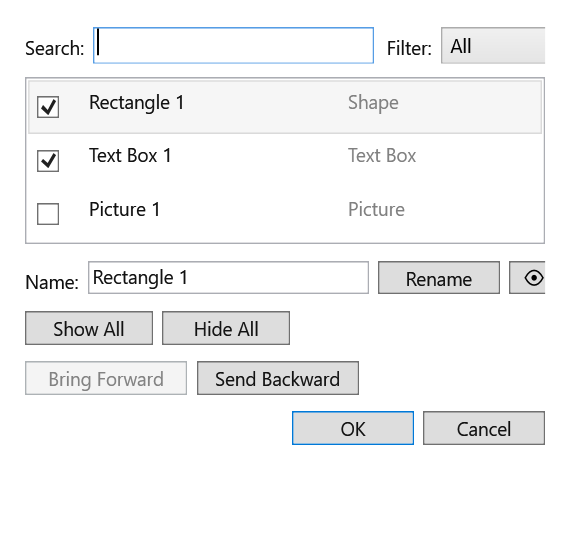
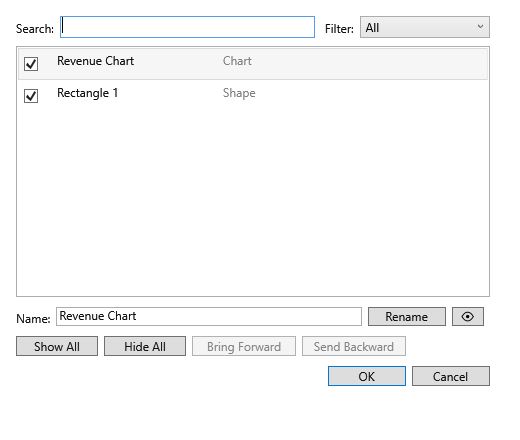
Refresh Selection Pane dialog parity evidence

diff --git a/tests/FreeX.App.Services.Tests/AvaloniaShellSourceTests.cs b/tests/FreeX.App.Services.Tests/AvaloniaShellSourceTests.cs
@@ -2676,6 +2676,9 @@ public sealed class AvaloniaShellSourceTests
         wpfCaptureSource.Should().Contain("SelectionPaneParityFixture.CreateDialogItems(");
         avaloniaCaptureSource.Should().Contain("SelectionPaneParityFixture.ChartName");
         avaloniaCaptureSource.Should().Contain("SelectionPaneParityFixture.ShapeName");
+        wpfCaptureSource.Should().Contain("CreateSelectionPaneItems()");
+        wpfCaptureSource.Should().NotContain("\"Text Box 1\"");
+        wpfCaptureSource.Should().NotContain("\"Picture 1\"");
 
         avaloniaCaptureSource.Should().Contain("ShowAccessibilityCheckerParityDialogAsync()");
         avaloniaCaptureSource.Should().Contain("AccessibilityCheckerParityFixture.CreateDialogIssues(");

diff --git a/docs/parity/dialog-visual-evidence-summary.md b/docs/parity/dialog-visual-evidence-summary.md
@@ -31,19 +31,19 @@ Sources:
 | WPF manifest ids without Avalonia pair | 0 |
 | Avalonia-manifest-only screenshot surface ids needing WPF manifest pair | 0 |
 | Nonblank PNG check failures | 0 |
-| Paired dimension mismatches (scale-aware logical units) | 44 |
-| Raw PNG pixel dimension mismatches | 70 |
+| Paired dimension mismatches (scale-aware logical units) | 43 |
+| Raw PNG pixel dimension mismatches | 69 |
 | Raw PNG mismatches normalized by capture DPI | 26 |
 | Paired expected-size evidence mismatches | 10 |
 | Stale promoted expected-size evidence | 5 |
 
 ## Scale-Aware Dimension Mismatch Classification
 
-The 44 scale-aware logical dimension mismatches are bucketed from committed PNG evidence and deterministic surface-id rules. Buckets describe the next review posture: align real layout sizes, fix content/state drift before comparing, accept expected platform/native control differences, or refresh limited evidence.
+The 43 scale-aware logical dimension mismatches are bucketed from committed PNG evidence and deterministic surface-id rules. Buckets describe the next review posture: align real layout sizes, fix content/state drift before comparing, accept expected platform/native control differences, or refresh limited evidence.
 
 | Bucket | Count | Top surface ids | Top next action |
 | --- | ---: | --- | --- |
-| content/visual mismatch | 13 | dialog.ScenarioManager<br>dialog.SelectionPane<br>dialog.AccessibilityChecker<br>dialog.FormatCells.Alignment<br>dialog.FormatCells.Fill | Align the seeded harness state before judging the remaining Scenario Manager dimensions. |
+| content/visual mismatch | 12 | dialog.ScenarioManager<br>dialog.AccessibilityChecker<br>dialog.FormatCells.Alignment<br>dialog.FormatCells.Fill<br>dialog.FormatCells.Border | Align the seeded harness state before judging the remaining Scenario Manager dimensions. |
 | evidence limitation | 12 | dialog.GoalSeekStatus<br>dialog.SymbolPicker<br>dialog.Sort<br>dialog.PivotTableOptions<br>dialog.PivotTableOptions.LayoutAndFormat | Recapture or tighten the WPF status crop before treating the height delta as a product bug. |
 | expected platform/native difference | 19 | dialog.FindReplace.Replace<br>dialog.FindReplace<br>dialog.FindReplace.Find<br>dialog.Sparkline<br>dialog.Options.QuickAccessToolbar | Keep as expected platform/native variance unless parity policy later requires exact control metrics. |
 
@@ -55,7 +55,6 @@ Outliers are ranked by a deterministic triage score: normalized 32x32 ARGB sampl
 | --- | ---: | ---: | --- | --- | --- | ---: | ---: | ---: | ---: |
 | dialog.ScenarioManager | 360x420 | 500x740 | 540x630 px @ 144 DPI vs 500x740 px @ 96 DPI | content/visual mismatch |  | 1.299 | 0.045 | 0.018 | 0.086 |
 | dialog.GoalSeekStatus | 380x219 | 380x190 | 380x219 px @ 96 DPI vs 380x190 px @ 96 DPI | evidence limitation |  | 0.873 | 0.268 | 0.220 | 0.252 |
-| dialog.SelectionPane | 380x360 | 520x440 | 570x540 px @ 144 DPI vs 520x440 px @ 96 DPI | content/visual mismatch |  | 0.851 | 0.051 | 0.023 | 0.186 |
 | dialog.AccessibilityChecker | 520x360 | 360x520 | 780x540 px @ 144 DPI vs 360x520 px @ 96 DPI | content/visual mismatch |  | 0.842 | 0.057 | 0.026 | 0.007 |
 | dialog.SymbolPicker | 620x500 | 840x620 | 930x750 px @ 144 DPI vs 840x620 px @ 96 DPI | evidence limitation | Expected 840x620 via SymbolPickerCatalogPlanner.DialogWidth/DialogHeight | 0.804 | 0.030 | 0.025 | 0.155 |
 | dialog.FormatCells.Alignment | 620x540 | 690x660 | 620x540 px @ 96 DPI vs 690x660 px @ 96 DPI | content/visual mismatch |  | 0.768 | 0.134 | 0.110 | 0.188 |
@@ -63,6 +62,7 @@ Outliers are ranked by a deterministic triage score: normalized 32x32 ARGB sampl
 | dialog.FormatCells.Border | 620x540 | 690x660 | 620x540 px @ 96 DPI vs 690x660 px @ 96 DPI | content/visual mismatch |  | 0.753 | 0.162 | 0.115 | 0.142 |
 | dialog.FormatCells.Font | 620x540 | 690x660 | 620x540 px @ 96 DPI vs 690x660 px @ 96 DPI | content/visual mismatch |  | 0.733 | 0.144 | 0.110 | 0.144 |
 | dialog.GoalSeek | 380x210 | 380x210 | 380x210 px @ 96 DPI vs 380x210 px @ 96 DPI |  |  | 0.725 | 0.258 | 0.220 | 0.247 |
+| dialog.FormatCells.Protection | 620x540 | 690x660 | 620x540 px @ 96 DPI vs 690x660 px @ 96 DPI | content/visual mismatch |  | 0.669 | 0.127 | 0.100 | 0.106 |
 
 ## Scale-Aware Dimension Mismatch Details
 
@@ -105,7 +105,6 @@ Outliers are ranked by a deterministic triage score: normalized 32x32 ARGB sampl
 | dialog.ProtectWorkbook | expected platform/native difference | 360x250 | 380x240 | 20x10 | The PNGs show the same paired surface with small WPF/Avalonia control, chrome, or default-spacing differences. | Keep as expected platform/native variance unless parity policy later requires exact control metrics. |
 | dialog.ScenarioManager | content/visual mismatch | 360x420 | 500x740 | 140x320 | The committed WPF PNG shows a selected seeded scenario while the Avalonia PNG shows an empty/no-scenario state. | Align the seeded harness state before judging the remaining Scenario Manager dimensions. |
 | dialog.SelectDataSource | content/visual mismatch | 620x500 | 468x499 | 152x1 | The committed PNGs show different dialog content/state, so the size delta is not isolated layout evidence. | Align the harness data/state first, then reclassify any residual logical-size delta. |
-| dialog.SelectionPane | content/visual mismatch | 380x360 | 520x440 | 140x80 | The committed PNGs use different sample objects and selected rows. | Align the sample worksheet objects and selection state, then re-rank the surface. |
 | dialog.ShapeGradient | evidence limitation | 420x280 | 500x300 | 80x20 | The checked-in PNG disagrees with an explicit expected capture size, so the dimension delta is suspect evidence. | Recapture or replace the stale evidence before treating this as a product layout mismatch. |
 | dialog.Sort | evidence limitation | 640x420 | 760x500 | 120x80 | The checked-in PNG disagrees with an explicit expected capture size, so the dimension delta is suspect evidence. | Recapture or replace the stale evidence before treating this as a product layout mismatch. |
 | dialog.Sparkline | expected platform/native difference | 380x240 | 372x230 | 8x10 | The PNGs show the same paired surface with small WPF/Avalonia control, chrome, or default-spacing differences. | Keep as expected platform/native variance unless parity policy later requires exact control metrics. |
@@ -226,7 +225,7 @@ These expected-size mismatches are known promoted fallback screenshots, not dire
 | dialog.SaveAsWorkbook | dialog.SaveAsWorkbook.png | 640x420 | 640x420 px @ 96 DPI | True | dialog.SaveAsWorkbook.png | 640x420 | 640x420 px @ 96 DPI | True | True | 0.036 |
 | dialog.ScenarioManager | dialog.ScenarioManager.png | 360x420 | 540x630 px @ 144 DPI | True | dialog.ScenarioManager.png | 500x740 | 500x740 px @ 96 DPI | True | False | 1.299 |
 | dialog.SelectDataSource | dialog.SelectDataSource.png | 620x500 | 930x750 px @ 144 DPI | True | dialog.SelectDataSource.png | 468x499 | 468x499 px @ 96 DPI | True | False | 0.404 |
-| dialog.SelectionPane | dialog.SelectionPane.png | 380x360 | 570x540 px @ 144 DPI | True | dialog.SelectionPane.png | 520x440 | 520x440 px @ 96 DPI | True | False | 0.851 |
+| dialog.SelectionPane | dialog.SelectionPane.png | 520x440 | 520x440 px @ 96 DPI | True | dialog.SelectionPane.png | 520x440 | 520x440 px @ 96 DPI | True | True | 0.122 |
 | dialog.ShapeEffects | dialog.ShapeEffects.png | 380x190 | 570x285 px @ 144 DPI | True | dialog.ShapeEffects.png | 380x190 | 380x190 px @ 96 DPI | True | True | 0.215 |
 | dialog.ShapeGradient | dialog.ShapeGradient.png | 420x280 | 630x420 px @ 144 DPI | True | dialog.ShapeGradient.png | 500x300 | 500x300 px @ 96 DPI | True | False | 0.393 |
 | dialog.Sort | dialog.Sort.png | 640x420 | 960x630 px @ 144 DPI | True | dialog.Sort.png | 760x500 | 760x500 px @ 96 DPI | True | False | 0.492 |

diff --git a/docs/parity/avalonia-wpf-cross-app-dashboard.md b/docs/parity/avalonia-wpf-cross-app-dashboard.md
@@ -6,7 +6,7 @@ Generated by `tools/Generate-CrossAppParityDashboard.ps1` from existing generate
 
 | App | Primary evidence | Current generated state | Next slice |
 |---|---|---|---|
-| FreeX | Functional matrix, classifier, dialog inventory, dialog visual evidence, command surface | 531 functional commands; 473 parity; 0 Avalonia-missing; 0 real classified binding gaps; 48 catalog-backed pseudo-gallery rows (34 conditional-format, 10 font/border, 4 accounting-symbol); 57/57 dialog routes captured on WPF and Avalonia; 93 paired screenshot surface ids, 0 Avalonia-only ids, 0 WPF-only ids; 70 raw PNG pixel mismatches, 26 DPI-normalized matches, 0 real logical-size mismatches | Command/dialog route coverage is green; all 48 pseudo-gallery rows are catalog-backed in classifier evidence (34 conditional-format rows over 38 runtime catalog items, 10 font/border rows, and 4 accounting-symbol rows), and dialog screenshot evidence has 93 paired WPF/Avalonia manifest surface ids with 0 Avalonia-only ids. Keep the 70 raw PNG pixel mismatches separate from missing-pair status: 26 normalize away by capture DPI, while 44 scale-aware paired mismatches remain for visual review, including 0 real logical-size mismatches and 5 stale promoted expected-size evidence rows. |
+| FreeX | Functional matrix, classifier, dialog inventory, dialog visual evidence, command surface | 531 functional commands; 473 parity; 0 Avalonia-missing; 0 real classified binding gaps; 48 catalog-backed pseudo-gallery rows (34 conditional-format, 10 font/border, 4 accounting-symbol); 57/57 dialog routes captured on WPF and Avalonia; 93 paired screenshot surface ids, 0 Avalonia-only ids, 0 WPF-only ids; 69 raw PNG pixel mismatches, 26 DPI-normalized matches, 0 real logical-size mismatches | Command/dialog route coverage is green; all 48 pseudo-gallery rows are catalog-backed in classifier evidence (34 conditional-format rows over 38 runtime catalog items, 10 font/border rows, and 4 accounting-symbol rows), and dialog screenshot evidence has 93 paired WPF/Avalonia manifest surface ids with 0 Avalonia-only ids. Keep the 69 raw PNG pixel mismatches separate from missing-pair status: 26 normalize away by capture DPI, while 43 scale-aware paired mismatches remain for visual review, including 0 real logical-size mismatches and 5 stale promoted expected-size evidence rows. |
 | FreeW | Generated command inventory | 794 commands; 336 shared-profile; 0 actionable WPF-missing; 0 actionable Avalonia-missing; 402 profile-shape-only; 19 command-id aliases; 12 platform-only; 25 deferred | Backstage print/export planner evidence now has paired WPF/Avalonia renderer contracts for PDF/preview fidelity; missing real captures fail the visual-evidence summary instead of being inferred. |
 | FreeP | Generated command inventory | 102 commands; 94 shared-profile; 0 actionable WPF-missing; 0 actionable Avalonia-missing; 8 platform-only | Layout picker, table picker, slide-pane reorder, bottom New Slide, and notes-page preview/PDF rendering now have WPF/Avalonia no-COM evidence paths. Continue workflow-depth slices in rich inline table/text editing, modern comments/review, and presenter recording/ink execution. |
 
